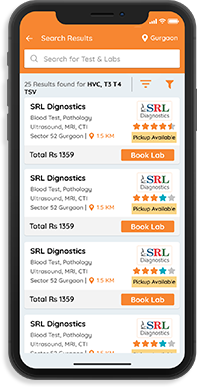
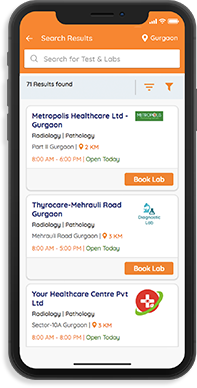
images for lab fixed, design fix

Changed region(s): [[0.0914, 0.1856, 0.9137, 0.9278], [0.8223, 0.1856, 0.8832, 0.2474], [0.6701, 0.2165, 0.7005, 0.2474]]

diff --git a/dev/css/customer.css b/dev/css/customer.css
@@ -110,11 +110,10 @@
 
 /*book card*/
 .card{margin-bottom: 10px;}
-.card-content .logo-ratting{  float: right; width: 100px; text-align: center;}
+.card-content .logo-ratting{ float: right; text-align: right;}
 .ratting{display: block;}
 .pickup-btn{padding: 5px; color: #000; background-color: #fad688; font-size: 12px; font-weight: 500;}
 .card-content .logo-ratting  .lab-icon{display: block; text-align: center;}
-.card-content .logo-ratting  .lab-icon img{width: 65px}
 .ratting>li{margin-right: -4px;}
 .card .card-footer{border-bottom-left-radius: 10px; border-bottom-right-radius: 10px; padding: 10px;}
 .logo-ratting{}
@@ -142,7 +141,7 @@
 	profile-book-screen
 =========================*/
 .empty-header {position: fixed; top: 50px; left: 0; right: 0; height: 40px;}
-.profile-book .pb-logo{width: 90px; border: 1px solid #ddd; padding: 5px; border-radius: 4px; text-align: center; margin: 10px auto;}
+.profile-book .pb-logo{width: 100px; border: 1px solid #ddd; padding: 5px; border-radius: 4px; text-align: center; margin: 10px auto;}
 
 .pb-title{font-size: 20px; font-weight: bold; color: #263077; margin-bottom: 5px;}
 .wc-title{margin-bottom: 5px;}
@@ -184,7 +183,7 @@
 .booking-confirm-screen{padding-bottom: 50px;}
 .booking-confirm-screen .lab-details{margin-bottom: 20px;}
 .booking-confirm-screen .lab-details .lab-title{padding-right: 100px;}
-.booking-confirm-screen .lab-details img{width: 70px; border:1px solid #ddd; padding: 3px ; float: right;}
+.booking-confirm-screen .lab-details img{max-width: 90px; max-height: 60px; border:1px solid #ddd; padding: 3px ; float: right;}
 .booking-confirm-screen .lab-details .lab-title .title{margin-bottom: 5px;}
 
 .booking-confirm-screen .lab-visit-time{margin-bottom: 40px;}

diff --git a/dev/js/components/diagnosis/commons/labProfileCard/LabProfileCard.js b/dev/js/components/diagnosis/commons/labProfileCard/LabProfileCard.js
@@ -56,8 +56,8 @@ class LabProfileCard extends React.Component {
                 <div className="widget-content card-content book-card">
                     <div className="logo-ratting">
                         <span className="ct-img lab-icon">
-                            <InitialsPicture style={{ 'marginRight': 0, 'width': 90, 'height': 60 }} name={lab.name} has_image={!!lab.lab_thumbnail} className="initialsPicture-ls">
-                                <img src={lab.lab_thumbnail} className="img-fluid" />
+                            <InitialsPicture name={lab.name} has_image={!!lab.lab_thumbnail} className="initialsPicture-ls">
+                                <img src={lab.lab_thumbnail} className="img-fluid" style={{ maxWidth: 90, maxHeight: 60 }} />
                             </InitialsPicture>
                         </span>
 

diff --git a/dev/js/components/diagnosis/bookingSummary/BookingSummaryView.js b/dev/js/components/diagnosis/bookingSummary/BookingSummaryView.js
@@ -239,7 +239,7 @@ class BookingSummaryView extends React.Component {
 
                                                                 <div className="lab-details">
                                                                     <InitialsPicture name={labDetail.name} has_image={!!labDetail.lab_thumbnail} className="initialsPicture-lb">
-                                                                        <img src={labDetail.lab_thumbnail} className="img-fluid" style={{ width: 50, height: 50 }} />
+                                                                        <img src={labDetail.lab_thumbnail} className="img-fluid" />
                                                                     </InitialsPicture>
 
                                                                     <div className="lab-title">
